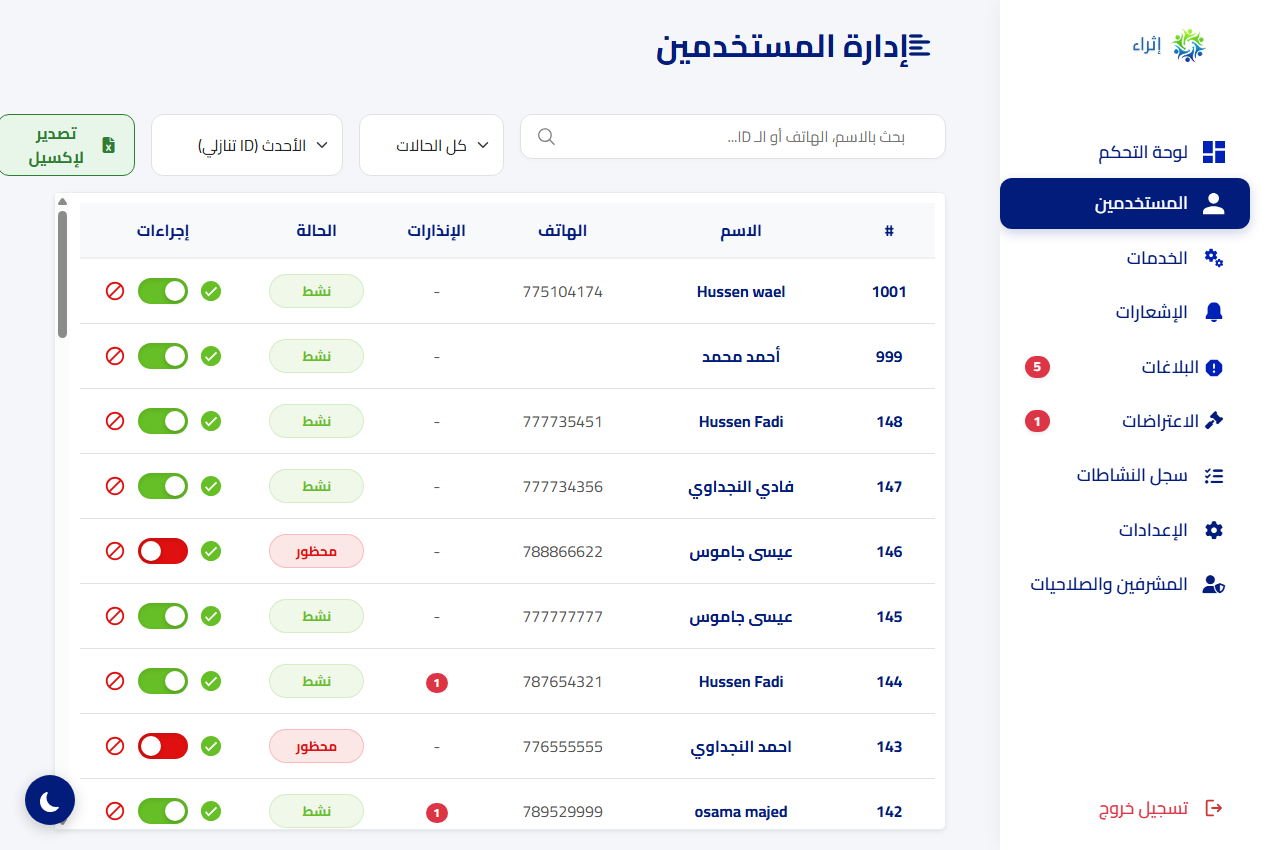
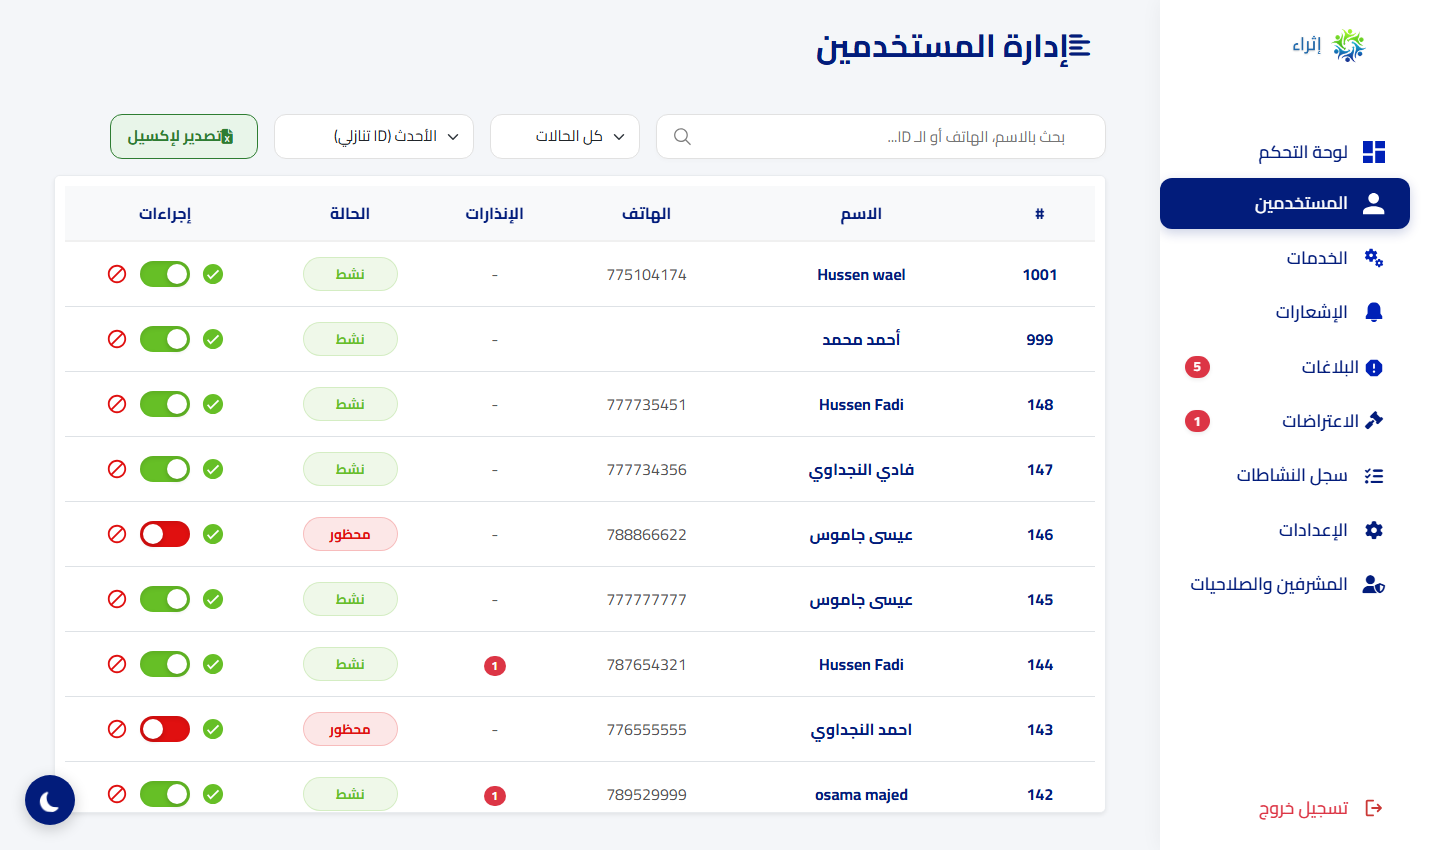
fix(admin-ui): harmonize users filter inputs and export button sizing and update screenshot

diff --git a/admin/users.php b/admin/users.php
@@ -155,28 +155,29 @@ $users = $stmt->get_result();
             <div class="container-fluid px-4">
                 
                 <!-- شريط البحث والعنوان -->
-                <div class="d-flex justify-content-start align-items-center mt-4 mb-3">
-                    <form method="GET" action="users.php" class="m-0 d-flex gap-3" id="searchForm" onsubmit="return false;">
+                <!-- شريط البحث والعنوان -->
+                <div class="d-flex justify-content-between align-items-center mt-4 mb-3 w-100">
+                    <form method="GET" action="users.php" class="m-0 d-flex align-items-center gap-3 w-100 flex-wrap" id="searchForm" onsubmit="return false;">
                         <div class="admin-search-box">
                             <img src="../assets/images/search.svg" class="admin-search-icon" alt="search">
                             <input type="text" name="search" id="searchInput" placeholder="بحث بالاسم، الهاتف أو الـ ID..." value="<?php echo htmlspecialchars($search); ?>" autocomplete="off">
                             <span id="clearSearch" class="clear-search-btn" style="display: none;">&times;</span>
                         </div>
                         
-                        <select name="status" id="statusFilter" class="form-select" style="width: 150px; border-radius: 12px; border: 1px solid #e1e1e1;">
+                        <select name="status" id="statusFilter" class="form-select" style="width: 150px; height: 45px; border-radius: 12px; border: 1px solid #e1e1e1; font-size: 0.95rem;">
                             <option value="">كل الحالات</option>
                             <option value="active" <?php if($status_filter == 'active') echo 'selected'; ?>>نشط فقط</option>
                             <option value="banned" <?php if($status_filter == 'banned') echo 'selected'; ?>>محظور فقط</option>
                         </select>
 
-                        <select name="sort" id="sortFilter" class="form-select" style="width: 200px; border-radius: 12px; border: 1px solid #e1e1e1;">
+                        <select name="sort" id="sortFilter" class="form-select" style="width: 200px; height: 45px; border-radius: 12px; border: 1px solid #e1e1e1; font-size: 0.95rem;">
                             <option value="newest" <?php if($sort == 'newest') echo 'selected'; ?>>الأحدث (ID تنازلي)</option>
                             <option value="oldest" <?php if($sort == 'oldest') echo 'selected'; ?>>الأقدم (ID تصاعدي)</option>
                             <option value="name_asc" <?php if($sort == 'name_asc') echo 'selected'; ?>>الاسم (أ - ي)</option>
                             <option value="name_desc" <?php if($sort == 'name_desc') echo 'selected'; ?>>الاسم (ي - أ)</option>
                         </select>
                         
-                        <button type="button" class="btn btn-export-excel ms-auto d-flex align-items-center" onclick="exportTableToCSV('المستخدمين_إثراء.csv')" style="border-radius: 12px; font-weight: bold; transition: all 0.3s ease;">
+                        <button type="button" class="btn btn-export-excel ms-auto d-flex align-items-center px-3" onclick="exportTableToCSV('المستخدمين_إثراء.csv')" style="height: 45px; border-radius: 12px; font-weight: bold; font-size: 0.95rem; transition: all 0.3s ease;">
                             <i class="fas fa-file-excel me-2"></i> تصدير لإكسيل
                         </button>
                     </form>
